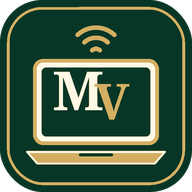
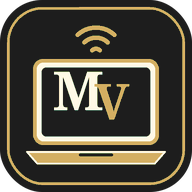
Add files via upload
Updated reels

diff --git a/index.html b/index.html
@@ -1009,7 +1009,7 @@ document.querySelectorAll("[data-home]").forEach(b => {
     if (homeTab === "shorts-screen") { renderShorts(); loadPublishedShorts(); }
     if (homeTab === "moments-screen") loadMoments();
     if (homeTab === "groups-screen") loadGroups();
-    if (homeTab === "profile-screen") loadProfile();
+    if (homeTab === "profile-screen") { showProfileMenu(); loadProfile(); }
     if (homeTab === "people-screen") loadPeople();
   };
 });
@@ -1115,8 +1115,9 @@ function renderShorts(){
   if(!items.length){const empty=el("div","shorts-empty");empty.textContent=activeShortFeed==="following"?"No Shorts from followed creators yet. Follow someone to build this feed.":(activeShortCategory==="All"?"No Shorts yet. Be the first to share an idea.":"No Shorts in "+activeShortCategory+" yet. Be the first to share one.");grid.appendChild(empty);return;}
   items.forEach(item=>{
     const card=el("div","short-card");card.id="short-card-"+item.id;
-    const video=el("video");video.playsInline=true;video.preload="metadata";video.controls=false;video.muted=true;video.loop=true;video.setAttribute("aria-label",item.title||"Short video");video.addEventListener("click",()=>{if(video.paused){video.play().catch(()=>{});}else{video.pause();}});
-    video.addEventListener("error",()=>{let msg=card.querySelector(".short-play");if(!msg){msg=el("span","short-play");card.appendChild(msg);}msg.textContent="Video could not load. Check storage bucket and video_path.";});
+    const video=el("video");video.playsInline=true;video.preload="metadata";video.controls=false;video.muted=true;video.loop=true;video.setAttribute("aria-label",item.title||"Short video");video.addEventListener("click",()=>{if(video.paused){video.muted=true;video.play().then(()=>{const err=card.querySelector(".short-play");if(err)err.remove();}).catch(e=>{let msg=card.querySelector(".short-play");if(!msg){msg=el("span","short-play");card.appendChild(msg);}msg.textContent="Tap to retry playback · "+(e?.name==="NotAllowedError"?"browser blocked autoplay":"video or storage access failed");});}else{video.pause();}});
+    video.addEventListener("error",()=>{let msg=card.querySelector(".short-play");if(!msg){msg=el("span","short-play");card.appendChild(msg);}const code=video.error?.code;msg.textContent=code===4?"Unsupported video format or invalid video URL. Check MP4/H.264 and storage path.":"Video could not load. Check the mjadala-shorts bucket, object path and read policy.";});
+    video.addEventListener("loadeddata",()=>{const msg=card.querySelector(".short-play");if(msg)msg.remove();});
     if(item.url){video.src=item.url;video.load();}
     else {video.controls=false;const msg=el("span","short-play",item.playbackError?"Playback unavailable: "+item.playbackError:"Video link unavailable");card.appendChild(msg);}
     card.appendChild(video);
@@ -1141,7 +1142,7 @@ function renderShorts(){
     }
     grid.appendChild(card);
   });
-  if("IntersectionObserver" in window){if(window.shortVideoObserver)window.shortVideoObserver.disconnect();window.shortVideoObserver=new IntersectionObserver(entries=>{entries.forEach(entry=>{const video=entry.target;if(entry.isIntersecting&&entry.intersectionRatio>=0.72){document.querySelectorAll("#shorts-grid video").forEach(other=>{if(other!==video){other.pause();other.muted=true;}});video.play().catch(()=>{});}else{video.pause();}});},{threshold:[0,.25,.5,.72,1]});grid.querySelectorAll("video").forEach(video=>window.shortVideoObserver.observe(video));}
+  if("IntersectionObserver" in window){if(window.shortVideoObserver)window.shortVideoObserver.disconnect();window.shortVideoObserver=new IntersectionObserver(entries=>{entries.forEach(entry=>{const video=entry.target;if(entry.isIntersecting&&entry.intersectionRatio>=0.72){document.querySelectorAll("#shorts-grid video").forEach(other=>{if(other!==video){other.pause();other.muted=true;}});video.play().catch(()=>{const owner=video.closest(".short-card");if(!owner)return;let msg=owner.querySelector(".short-play");if(!msg){msg=el("span","short-play");owner.appendChild(msg);}msg.textContent="Tap the video to retry playback.";});}else{video.pause();}});},{threshold:[0,.25,.5,.72,1]});grid.querySelectorAll("video").forEach(video=>window.shortVideoObserver.observe(video));}
 }
 document.querySelectorAll("[data-short-category]").forEach(button=>button.addEventListener("click",()=>{activeShortCategory=button.dataset.shortCategory;document.querySelectorAll("[data-short-category]").forEach(b=>b.classList.toggle("active",b===button));renderShorts();}));
 $("shorts-feed-all")?.addEventListener("click",()=>{activeShortFeed="all";$("shorts-feed-all").classList.add("active");$("shorts-feed-following").classList.remove("active");$("shorts-feed-all").setAttribute("aria-selected","true");$("shorts-feed-following").setAttribute("aria-selected","false");renderShorts();});
@@ -1513,7 +1514,25 @@ function showProfileMenu(){const menu=$("profile-menu"),editor=$("profile-editor
 function showProfileEditor(){const menu=$("profile-menu"),editor=$("profile-editor-area");if(menu)menu.hidden=true;if(editor)editor.hidden=false;loadProfile();loadPrivacyPreferences();}
 $("profile-editor-back")?.addEventListener("click",showProfileMenu);
 $("menu-logout")?.addEventListener("click",()=>$("logout").click());
-document.querySelectorAll("[data-profile-action]").forEach(button=>button.addEventListener("click",()=>{const action=button.dataset.profileAction;switch(action){case "my-profile":showProfileEditor();break;case "notifications":case "settings":showProfileEditor();setTimeout(()=>$('notification-settings')?.scrollIntoView({behavior:"smooth",block:"start"}),80);break;case "my-posts":openProfileShorts(false);break;case "saved":openProfileShorts(true);break;case "help":showProfileUtility("Help & Support","For account or upload problems, describe what happened in Feedback so the Mjadala administrator can investigate.");break;case "feedback":showFeedbackPanel();break;case "about":showProfileUtility("About Mjadala","Mjadala — Real People · Real Talks · Bigger Ideas.");break;}}));
+// Delegate profile menu actions so they remain responsive if the profile UI is re-rendered.
+if(!window.mjadalaProfileActionsBound){
+  window.mjadalaProfileActionsBound=true;
+  document.addEventListener("click",event=>{
+    const button=event.target.closest("[data-profile-action]");if(!button)return;
+    event.preventDefault();event.stopPropagation();
+    const action=button.dataset.profileAction;
+    switch(action){
+      case "my-profile": showProfileEditor(); break;
+      case "notifications": case "settings":
+        showProfileEditor();setTimeout(()=>$("notification-settings")?.scrollIntoView({behavior:"smooth",block:"start"}),120);break;
+      case "my-posts": openProfileShorts(false);break;
+      case "saved": openProfileShorts(true);break;
+      case "help": showProfileUtility("Help & Support","For account or upload problems, describe what happened in Feedback so the Mjadala administrator can investigate.");break;
+      case "feedback": showFeedbackPanel();break;
+      case "about": showProfileUtility("About Mjadala","Mjadala — Real People · Real Talks · Bigger Ideas.");break;
+    }
+  });
+}
 async function toggleSaveShort(item,button){
   if(!me){alert("Sign in to save a Reel.");return;}
   button.disabled=true;

diff --git a/sw.js b/sw.js
@@ -2,7 +2,7 @@
 // Service worker: keeps the app shell so it opens fast on a weak connection.
 // Network first, so a new version reaches users as soon as they reopen the app.
 // Only this site's own files are cached; chat data is never cached.
-const CACHE = "mjadala-forest-gold-v7-profile-reels";
+const CACHE = "mjadala-charcoal-gold-v8-profile-reels-playback";
 const SHELL = ["/", "/icon-192.png", "/icon-512.png"];
 
 self.addEventListener("install", e => {
